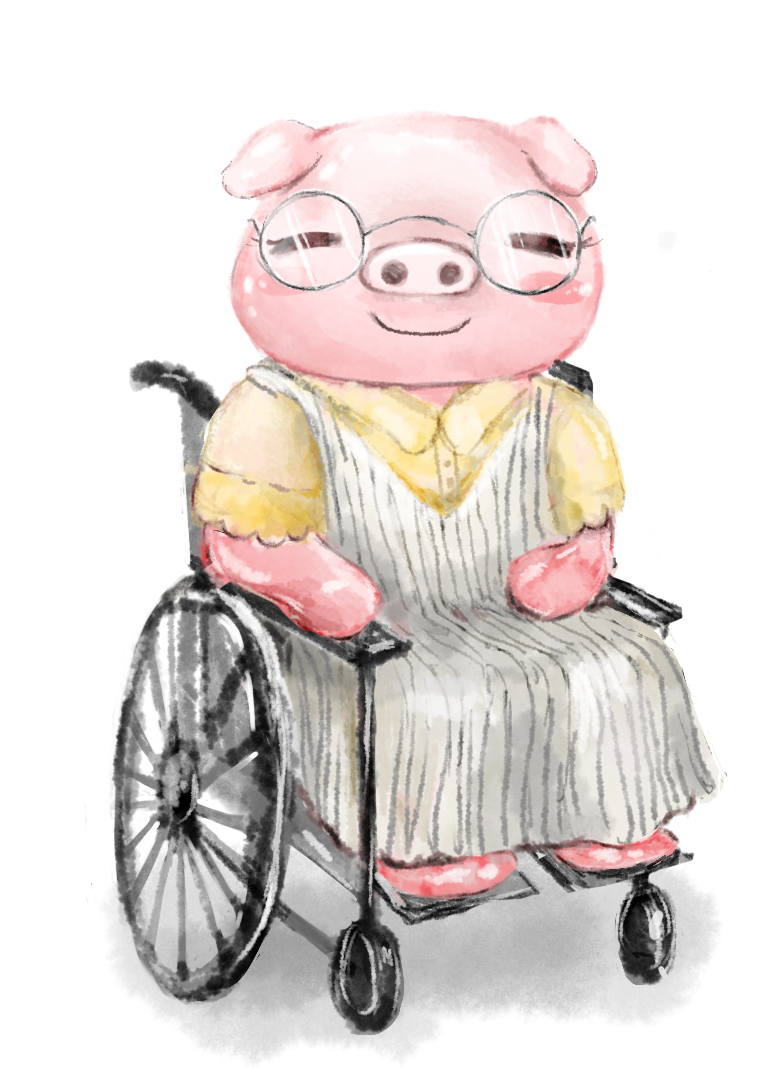
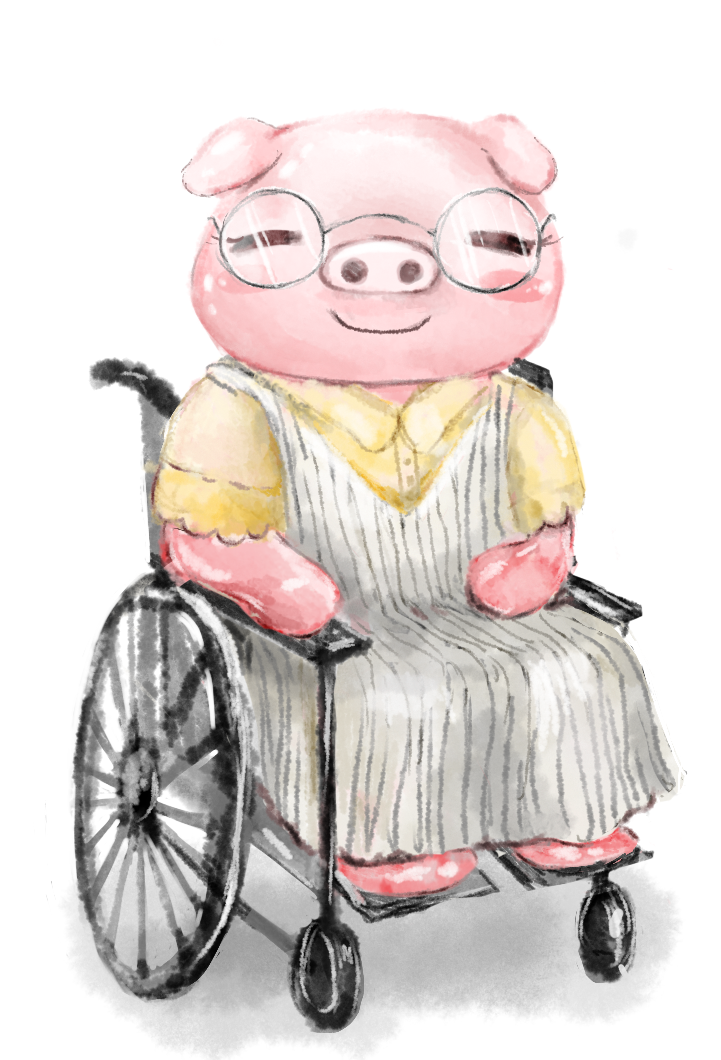
oink

diff --git a/options.html b/options.html
@@ -2,10 +2,9 @@
 <html>
 
 <head>
-    <title>meh</title>
+    <title>Oink web accessibility</title>
     <script src="https://code.jquery.com/jquery-3.3.1.slim.min.js" integrity="sha384-q8i/X+965DzO0rT7abK41JStQIAqVgRVzpbzo5smXKp4YfRvH+8abtTE1Pi6jizo" crossorigin="anonymous"></script>
     <script src="https://cdnjs.cloudflare.com/ajax/libs/popper.js/1.14.3/umd/popper.min.js" integrity="sha384-ZMP7rVo3mIykV+2+9J3UJ46jBk0WLaUAdn689aCwoqbBJiSnjAK/l8WvCWPIPm49" crossorigin="anonymous"></script>
-    <script type="text/javascript" src="options.js"></script>
     <link rel="stylesheet" href="https://stackpath.bootstrapcdn.com/bootstrap/4.1.3/css/bootstrap.min.css" integrity="sha384-MCw98/SFnGE8fJT3GXwEOngsV7Zt27NXFoaoApmYm81iuXoPkFOJwJ8ERdknLPMO" crossorigin="anonymous">
     <script src="https://stackpath.bootstrapcdn.com/bootstrap/4.1.3/js/bootstrap.min.js" integrity="sha384-ChfqqxuZUCnJSK3+MXmPNIyE6ZbWh2IMqE241rYiqJxyMiZ6OW/JmZQ5stwEULTy" crossorigin="anonymous"></script>
     <link href="https://fonts.googleapis.com/css?family=Inconsolata" rel="stylesheet">
@@ -16,19 +15,42 @@
 
 <body>
     <div class="col-sm-4 fixedonside">
+        <h2>Hi there! <br/>How can I help you?</h2>
         <img src="pig.png" alt="image of our pig logo, oink!">
             </div>
         <div class="col-sm-8 form bord">
-            <h2>Hi there! How can I help you?</h2>
+            <h3> Computer vision based image content detection</h3>
             <form>
                 <label>
                     <div class="switch">
                         <input type="checkbox" tabIndex=0>
                         <span class="slider round"></span>
                     </div>
-                    Autofill missing alt tags on images using Google Cloud Vision
+                    Autofill missing alt tags on images
                 </label>
                 <br>
+                <label>
+                    <div class="switch">
+                        <input type="checkbox" tabIndex=0>
+                        <span class="slider round"></span>
+                    </div>
+                    Check images and block the ones that contain 
+                    user-defined sensitive content.
+                    <div class="detail">
+                        <input type="text" id="texttag" class="textinput_short" 
+                            placeholder="content to block (example: spider)">
+                        <button type="button" id="addblocktag">+</button>
+                        <p ><i id="blockedimagelist">list of blocked tags: </i></p>
+                        <input type="text" id="urltag" class="textinput_short" 
+                            placeholder="replacement img url (default = our image)">
+                        <button type="button" id="addurl">+</button>
+                        <p ><i id="appliedurl">current applied url: </i></p>
+                    </div>
+
+                </label>
+            </form>
+            <h3> General Visibility</h3>
+            <form>
                 <label>
                     <div class="switch">
                         <input type="checkbox" tabIndex=0>
@@ -42,32 +64,33 @@
                         <span class="slider round"></span></div>
                     Make links more distinctive (bold, colored)
                 </label>
-                <br>
-                <label>
-                    <div class="switch">
-                        <input type="checkbox" tabIndex=0>
-                        <span class="slider round"></span></div>
-                    Simplify complex language
-                </label>
-                <br />
+                <br/>
                 <label>
                     <div class="switch">
                         <input type="checkbox" tabIndex=0>
                         <span class="slider round"></span></div>
                     Increase color contrast on pages
                 </label>
-                <br />
+                <br/>
+            </form>
+            <h3> Audio</h3>
+            <form>
                 <label>
                     <div class="switch">
                         <input type="checkbox" tabIndex=0>
                         <span class="slider round"></span></div>
                     Send alerts if the website plays audio
                 </label>
-                <br />
-                <i>Is there anything else we forgot? Let us know how we can help :-)</i> <input class="textinput" type="text"><span class="sent-mail" tabindex=0><img src="sent-mail.svg" alt="sending message button"></span>
             </form>
+            <h3> Contact Us!</h3>
+                <br />
+                <i id="messageus">Is there anything else we forgot? 
+                <br/>
+                Let us know how we can help :-)</i> <input class="textinput" type="text"><span class="sent-mail" tabindex=0><img src="sent-mail.svg" alt="sending message button"></span>
         </div>
+
     </div>
+        <script type="text/javascript" src="options.js"></script>
 </body>
 
 </html>

diff --git a/options.css b/options.css
@@ -1,6 +1,9 @@
 img{
+    position: absolute;
     padding-top: 20%;
-    width: 92%;
+    width: 80%;
+    margin-left: 3%;
+    bottom: 10%;
 }
 body{
     padding-top: 4%;
@@ -10,15 +13,62 @@ body{
 
 }
 
+.detail{
+    position: relative;
+    width: 85%;
+    left: 15%;
+}
+
+#addblocktag{
+    background-color: transparent;
+    border: 0px;
+    color: #333;
+    font-weight: 800;
+    font-size: 2em;
+}
+
+#addurl{
+
+    background-color: transparent;
+    border: 0px;
+    color: #333;
+    font-weight: 800;
+    font-size: 2em;
+
+}
+
+.textinput_short{
+    width: 90%;
+    background-color: transparent;
+    border: 0px;
+    border-bottom: 1px solid #333;
+}
+
 form{
     padding-top: 4%;
+    padding-bottom: 2em;
+}
+
+h3{
+    padding-bottom: 0.3em;
+    border-bottom: 4px solid #ed9eb277;
+    font-weight: 700;
 }
 
 .col-sm-4{
+    height: 100%;
     position: fixed;
     left: 3%;
-    bottom: 6%;
+    
     width: 30%;
+}
+
+.col-sm-4 h2{
+    padding: 5%;
+    font-weight: 700;
+    color: #333;
+    position: absolute;
+    top: 3%;
 }
 
 .bord {
@@ -32,7 +82,7 @@ form{
 }
 
 .textinput{
-    height: 2.3em;
+    height: 2em;
     background-color: transparent;
     border: 0px;
     border-bottom: 1px solid black;
@@ -41,7 +91,8 @@ form{
 
 .sent-mail{
     position: absolute;
-    right: 2em;
+    bottom: calc(5% + 1em);
+    right: 3.3em;
 }
 .sent-mail img{
     width: 1.5em;
@@ -51,8 +102,9 @@ form{
 /*    background-color: #ed9eb233;*/
     color: #444;
     padding: 3%;
-    padding-bottom: 1%;
+    padding-bottom: 5%;
     font-size: 23px;
+
 }
 
 .switch{
@@ -61,6 +113,7 @@ form{
 
 label{
     padding-bottom: 0.5em;
+
 }
 
 /* The switch - the box around the slider */
@@ -124,4 +177,8 @@ input:checked + .slider:before {
 
 .slider.round:before {
   border-radius: 50%;
+}
+
+#messageus{
+    margin-bottom: 4em;
 }

diff --git a/options.js b/options.js
@@ -1,0 +1,10 @@
+    document.getElementById("addblocktag").addEventListener("click", function(){
+        console.log("clicked");
+        var str = document.getElementById("blockedimagelist").innerHTML;
+        var value = document.getElementById("texttag").value;
+        if(!value || value === "") return;
+        str = str + " " + value;
+        document.getElementById("blockedimagelist").innerHTML = str;
+        console.log(str);
+        return false;
+    })

diff --git a/backgroundScripts.js b/backgroundScripts.js
@@ -1,9 +1,14 @@
-/*
-Name: Akshath Jain
-Date: 11/4/18
-Purpose: background script for saving data
-*/
-
 function saveData(obj){
 	chrome.storage.sync.set(obj);
 }
+
+var alerted = new Array();
+
+chrome.tabs.onUpdated.addListener(function(tabId, changeInfo, tab){
+  
+  // alert if playing audio on load
+  if (tab.audible && !alerted.includes(tabId)){
+    window.alert("This tab is playing audio!");
+    alerted.push(tabId);
+  }
+});

diff --git a/popup.js b/popup.js
@@ -1,6 +1,3 @@
-//import * as socket from './socket.io.js';
-
-
 var backgroundPage;
 var numImagesChanged = 0;
 var numImageChagedView;
